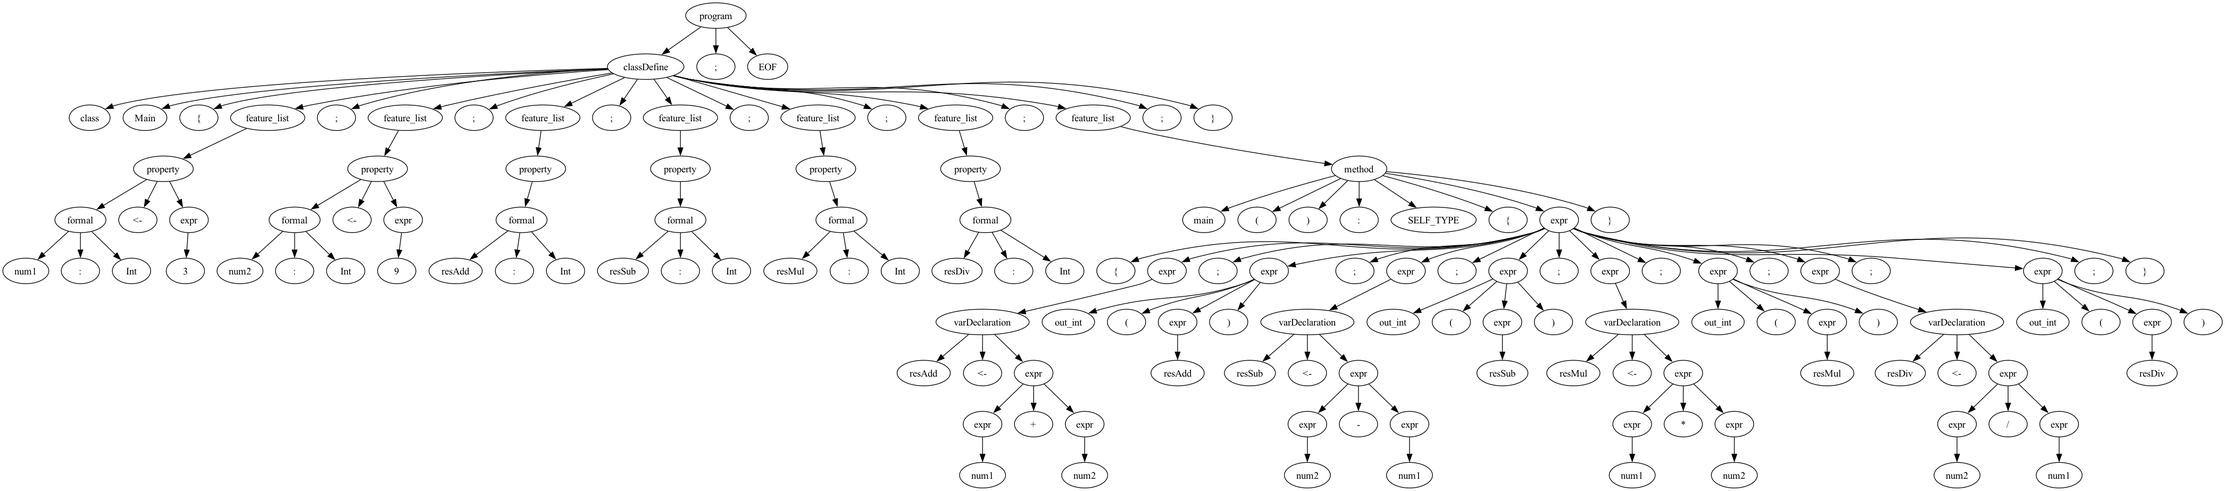
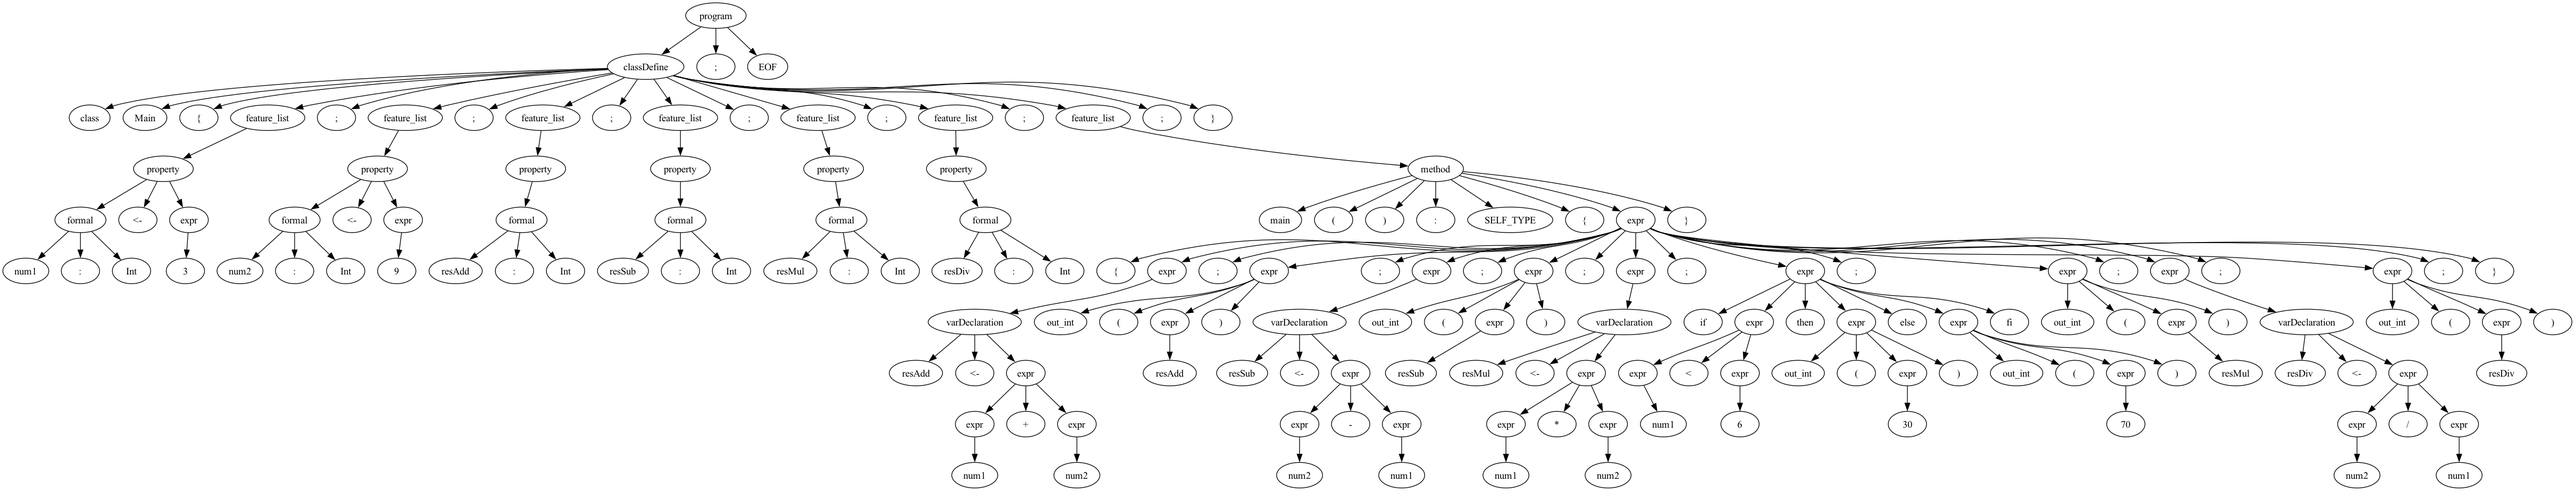
implementando parcialmente if statement

diff --git a/Proyecto3/Ensamblador.py b/Proyecto3/Ensamblador.py
@@ -36,12 +36,16 @@ class Assembler:
         self.v_counter += 1
         return v
     
-    def recorrer_cuadruplas(self,cuadruplas_actuales):
+    def recorrer_cuadruplas(self,cuadruplas_actuales, cuadrupla_exit_label = None):
 
         for indice, cuadrupla in enumerate(cuadruplas_actuales):
 
             print("Procesando cuadrupla numero: ", indice, " con valor: ", cuadrupla)
             self.generar_codigo_mips(cuadrupla) 
+        
+        # if cuadrupla_exit_label:
+        #     self.text_section += f"\nSUBRUTINA_{cuadrupla_exit_label.resultado}:\n"
+        #     self.indentation += 1
 
     def generar_codigo_mips(self, cuadrupla_actual):
 
@@ -66,6 +70,148 @@ class Assembler:
 
         if cuadrupla_actual.operador in ['+', '-', '*', '/']:
             self.mips_aritmetica(cuadrupla_actual)
+
+        # Prints
+
+        if cuadrupla_actual.operador == 'PROCEDURE':
+            self.mips_procedure(cuadrupla_actual)
+        
+        # Ifs simples
+
+        if cuadrupla_actual.operador == 'IFS':
+            self.mips_ifs(cuadrupla_actual)
+                
+
+    def mips_ifs(self, cuadrupla):
+        
+        # Actualmente estamos en la cuadrupla 
+        # IFS      |    ---     |    ---     |    ---
+
+        # La cuadrupla que tenemos que procesar es la siguiente i + 1
+        # Para eso obtenemos el indice de la cuadrupla actual en la lista de cuadruplas
+
+        indice_cuadrupla_actual = self.cuadruplas_iniciales.index(cuadrupla)
+
+        # Obtenemos la cuadrupla siguiente
+
+        cuadrupla_siguiente = self.cuadruplas_iniciales[indice_cuadrupla_actual + 1]
+
+        # Con esto ya tenemos la siguiente cuadrupla que contiene la comparacion
+        #    <       |     4      |     6      |     t4    |
+
+        # Tenemos que ver que tipo de comparacion es para utilizar blt, bgt, ble, bge, beq, bne 
+
+        instruccion_comparacion = ""
+
+        match cuadrupla_siguiente.operador:
+
+            case '<':
+                instruccion_comparacion = "blt"
+            case '>':
+                instruccion_comparacion = "bgt"
+            case '<=':
+                instruccion_comparacion = "ble"
+            case '>=':
+                instruccion_comparacion = "bge"
+            case '==':
+                instruccion_comparacion = "beq"
+            case '!=':
+                instruccion_comparacion = "bne"
+        
+        # Ahora tenemos que ver si los operandos son variables o constantes
+
+        operando1 = ""
+
+        if cuadrupla_siguiente.operando1 in self.variables_cargadas:
+            operando1 = self.variables_cargadas[cuadrupla_siguiente.operando1]
+        else:
+
+            # Tambien tenemos que alocar el valor en un registro temporal
+            self.text_section += f"\n{'    ' * self.indentation}li $t{self.temp_counter}, {cuadrupla_siguiente.operando1}\n"
+            self.variables_cargadas[cuadrupla_siguiente.operando1] = f"t{self.temp_counter}"
+            self.temp_counter += 1
+            operando1 = self.variables_cargadas[cuadrupla_siguiente.operando1]
+        
+        operando2 = ""
+
+        if cuadrupla_siguiente.operando2 in self.variables_cargadas:
+            operando2 = self.variables_cargadas[cuadrupla_siguiente.operando2]
+        else:
+            # Tambien tenemos que alocar el valor en un registro temporal
+            self.text_section += f"\n{'    ' * self.indentation}li $t{self.temp_counter}, {cuadrupla_siguiente.operando2}\n"
+            self.variables_cargadas[cuadrupla_siguiente.operando2] = f"t{self.temp_counter}"
+            self.temp_counter += 1
+            operando2 = self.variables_cargadas[cuadrupla_siguiente.operando2]
+        
+        # Ahora tenemos que ver a donde tenemos que saltar si la comparacion es falsa
+
+        cuadrupla_jump_if_false = self.cuadruplas_iniciales[indice_cuadrupla_actual + 2]
+
+        # El salto se hace a la etiqueta que esta en el resultado de la cuadrupla cuadrupla_jump_if_false
+
+        etiqueta_salto = "SUBRUTINA_" + cuadrupla_jump_if_false.resultado
+
+        self.text_section += f"\n{'    ' * self.indentation}{instruccion_comparacion} ${operando1}, ${operando2}, {etiqueta_salto}\n"
+
+        # Ahora tenemos que obtener la EXIT_LABEL para saber a donde tenemos que saltar luego
+
+        cuadrupla_exit_label = None
+
+        # Iteramos desde la cuadrupla actual hasta el final de la lista de cuadruplas si es necesario para encontrar la cuadrupla que contiene la etiqueta de salida
+
+        for cuadrupla in self.cuadruplas_iniciales[indice_cuadrupla_actual:]:
+            if cuadrupla.operador == 'EXIT_LABEL':
+                cuadrupla_exit_label = cuadrupla
+                break
+
+        # EXIT_LABEL  |    None    |    None    |     L2    |
+
+        # Ahora escribimos todo lo que tendria que suceder si la comparacion es verdadera tomando desde la actual hasta la cuadrupla que contiene la etiqueta de salto
+        
+        cuadrupla_salto_en_caso_de_verdadero = None
+
+        for cuadrupla in self.cuadruplas_iniciales[indice_cuadrupla_actual:]:
+            if cuadrupla.operador == "JUMP":
+                cuadrupla_salto_en_caso_de_verdadero = cuadrupla
+                break
+        
+        lista_cuadruplas_in_between = self.cuadruplas_iniciales[self.cuadruplas_iniciales.index(cuadrupla_jump_if_false) + 1: self.cuadruplas_iniciales.index(cuadrupla_salto_en_caso_de_verdadero)]
+
+        print("Cuadrupla salto en caso de verdadero: ", cuadrupla_salto_en_caso_de_verdadero)
+        print("Lista de cuadruplas en between si se entro al if: ")
+        for cuadrupla in lista_cuadruplas_in_between:
+            print(cuadrupla)
+        
+        # Tenemos que procesar las cuadruplas en between generando su codigo mips
+
+        self.recorrer_cuadruplas(lista_cuadruplas_in_between, cuadrupla_exit_label)
+
+        self.text_section += f"\n{'    ' * self.indentation}j SUBRUTINA_{cuadrupla_exit_label.resultado}\n"
+
+        # Creamos la Label de la SUBRUTINA que contiene la etiqueta de salto
+
+        self.text_section += f"\n{etiqueta_salto}:\n"
+
+        # Tenemos que procesar las cuadruplas que estan entre la etiqueta de salto y la etiqueta de salida
+
+        lista_cuadruplas_in_between = self.cuadruplas_iniciales[self.cuadruplas_iniciales.index(cuadrupla_salto_en_caso_de_verdadero) + 1: self.cuadruplas_iniciales.index(cuadrupla_exit_label)]
+
+        print("Lista de cuadruplas in between si se entro al else: ")
+
+        for cuadrupla in lista_cuadruplas_in_between:
+            print(cuadrupla)
+        
+        self.recorrer_cuadruplas(lista_cuadruplas_in_between)
+
+
+        
+
+
+
+
+
+
+
 
     def mips_aritmetica(self, cuadrupla):
         # verificar si las variables ya estan cargadas en los registros
@@ -120,3 +266,28 @@ class Assembler:
         else:
             self.text_section += f"{'    ' * self.indentation}sw $t{self.temp_counter-1}, {cuadrupla.resultado}\n"
             self.variables_cargadas[cuadrupla.resultado] = f"t{self.temp_counter-1}"
+    
+    def mips_procedure(self, cuadrupla):
+        
+        if cuadrupla.operando2 in self.variables_cargadas:
+            if cuadrupla.operando1 == 'out_int':
+                        self.text_section += f"\n{'    ' * self.indentation}li $v0, 1\n"
+                        self.text_section += f"{'    ' * self.indentation}move $a0, ${self.variables_cargadas[cuadrupla.operando2]}\n"
+                        self.text_section += f"{'    ' * self.indentation}syscall\n"
+                    
+            # out_string
+            elif cuadrupla.operando1 == 'out_string':
+                self.text_section += f"\n{'    ' * self.indentation}li $v0, 4\n"
+                self.text_section += f"{'    ' * self.indentation}move $a0, ${self.variables_cargadas[cuadrupla.operando2]}\n"
+                self.text_section += f"{'    ' * self.indentation}syscall\n"
+        else:
+            if cuadrupla.operando1 == 'out_int':
+                        self.text_section += f"\n{'    ' * self.indentation}li $v0, 1\n"
+                        self.text_section += f"{'    ' * self.indentation}move $a0, ${cuadrupla.operando2}\n"
+                        self.text_section += f"{'    ' * self.indentation}syscall\n"
+                    
+            # out_string
+            elif cuadrupla.operando1 == 'out_string':
+                self.text_section += f"\n{'    ' * self.indentation}li $v0, 4\n"
+                self.text_section += f"{'    ' * self.indentation}move $a0, ${cuadrupla.operando2}\n"
+                self.text_section += f"{'    ' * self.indentation}syscall\n"
